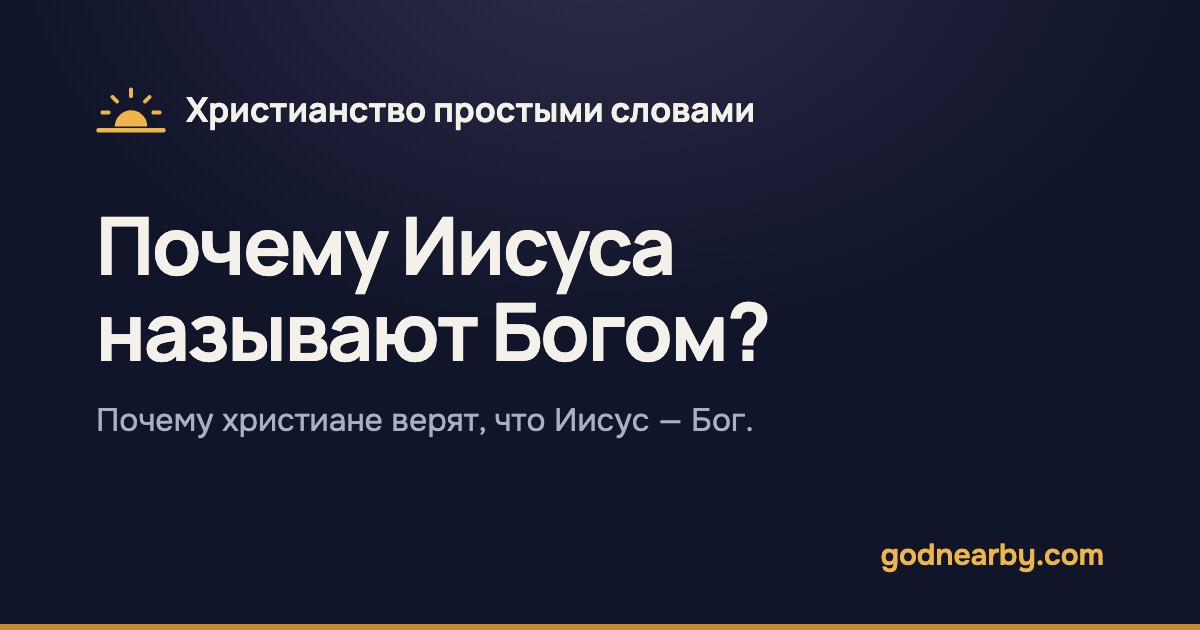
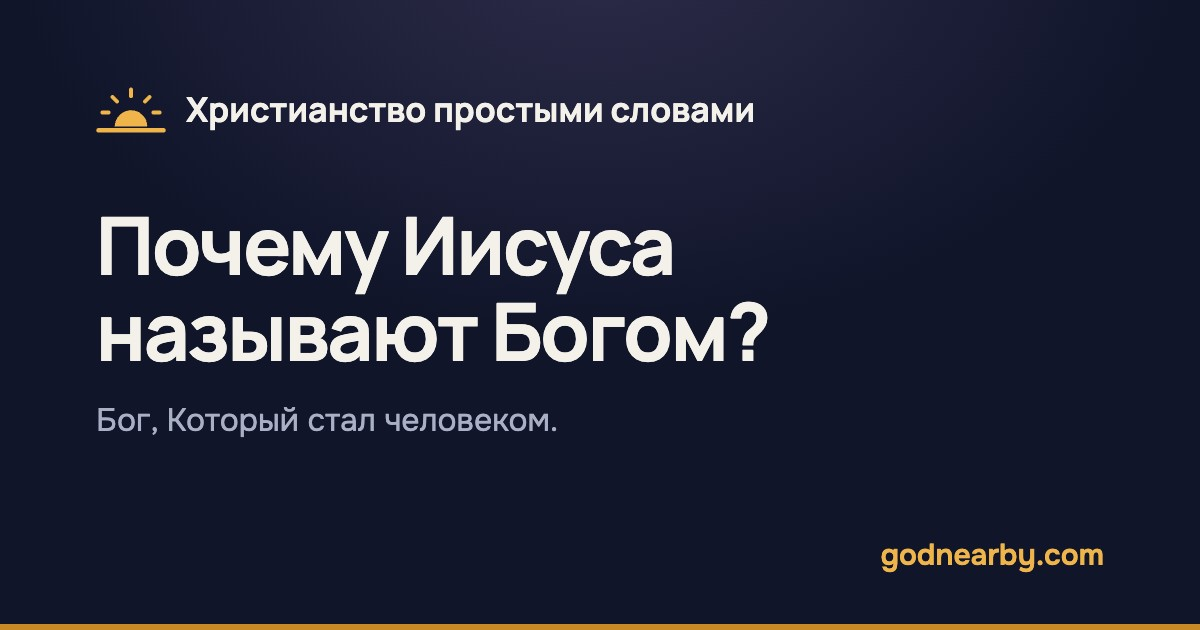
Lesson 9: description back as it was

Changed region(s): [[0.0925, 0.6333, 0.6167, 0.6937]]

diff --git a/iisus-syn-bozhiy.html b/iisus-syn-bozhiy.html
@@ -4,7 +4,7 @@
 <meta charset="utf-8">
 <meta name="viewport" content="width=device-width,initial-scale=1,viewport-fit=cover">
 <title>Почему Иисуса называют Богом? · Христианство простыми словами</title>
-<meta name="description" content="Почему христиане верят, что Иисус — Бог.">
+<meta name="description" content="Бог, Который стал человеком.">
 <link rel="canonical" href="https://godnearby.com/iisus-syn-bozhiy">
 <link rel="icon" href="favicon.svg" type="image/svg+xml">
 <link rel="apple-touch-icon" href="apple-touch-icon.png">
@@ -13,7 +13,7 @@
 <meta property="og:type" content="website">
 <meta property="og:site_name" content="Христианство простыми словами">
 <meta property="og:title" content="Почему Иисуса называют Богом? · Христианство простыми словами">
-<meta property="og:description" content="Почему христиане верят, что Иисус — Бог.">
+<meta property="og:description" content="Бог, Который стал человеком.">
 <meta property="og:url" content="https://godnearby.com/iisus-syn-bozhiy">
 <meta property="og:image" content="https://godnearby.com/og/iisus-syn-bozhiy.jpg">
 <meta property="og:image:width" content="1200">
